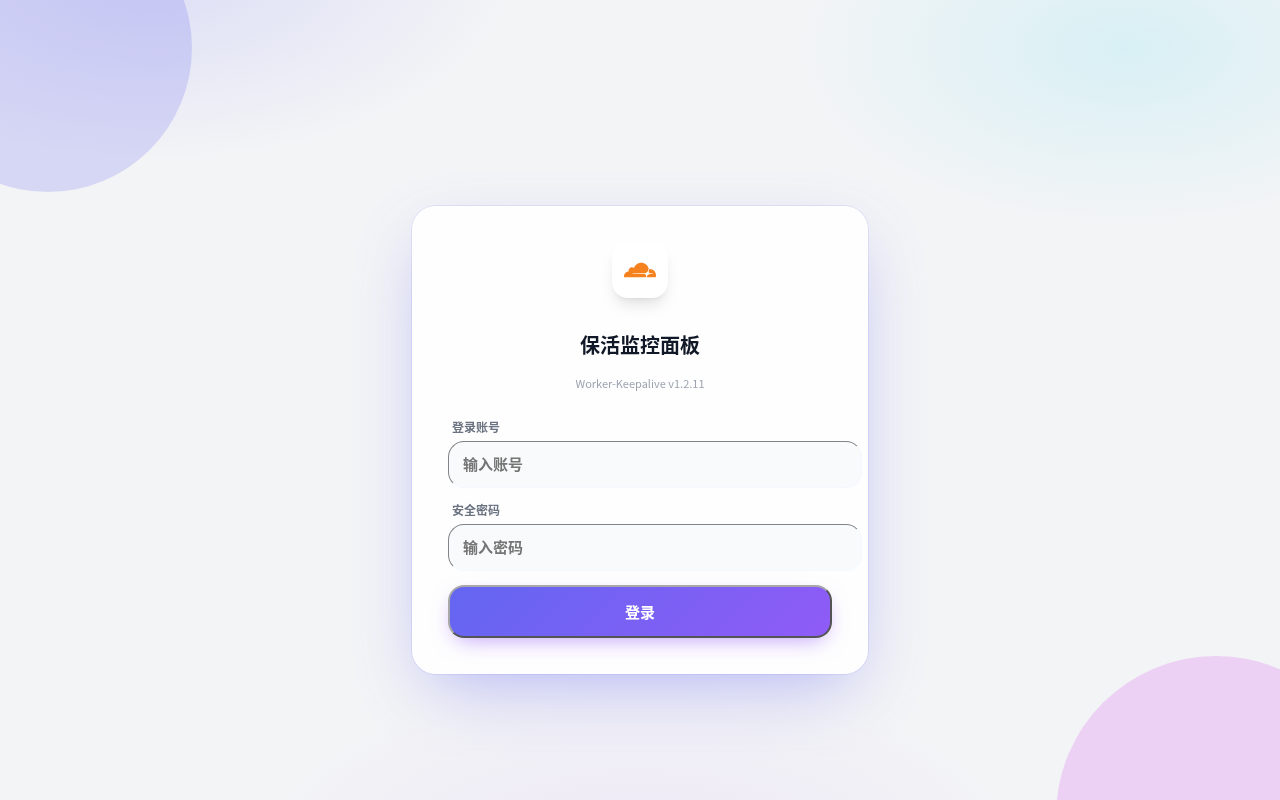
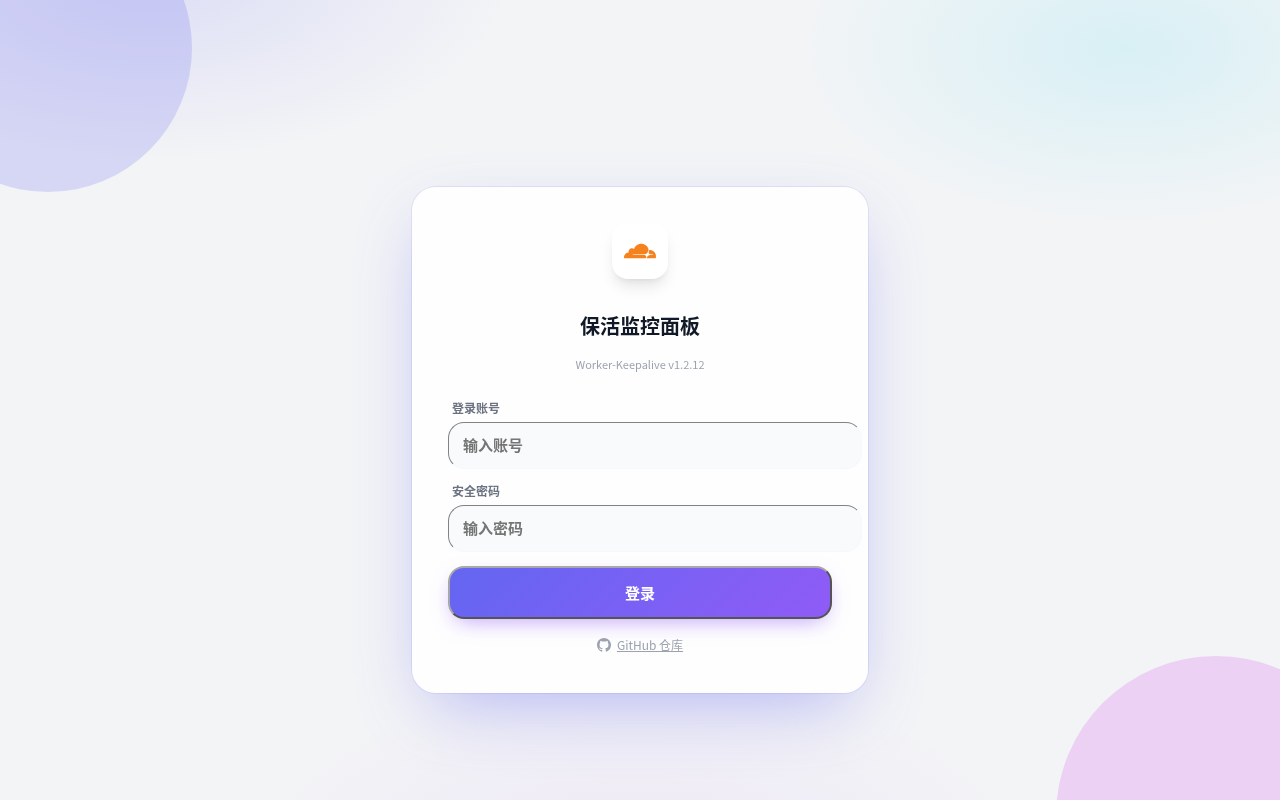
feat: 登录页与顶栏加 GitHub 仓库链接 (v1.2.12)
- 登录页登录按钮下方加居中 GitHub 小链接（章鱼猫图标）
- 登录后顶栏主题切换按钮前加 GitHub 图标按钮
- README 截图 8 张同步更新到 v1.2.12

Changed region(s): [[0.3438, 0.5, 0.6562, 0.8125], [0.4375, 0.3125, 0.5625, 0.5], [0.3125, 0.8125, 0.6875, 0.875]]

diff --git a/worker.js b/worker.js
@@ -1,4 +1,4 @@
-// ========== 站点保活管理系统 v1.2.11 ==========
+// ========== 站点保活管理系统 v1.2.12 ==========
 // 零外部依赖：Vue 3 与 Tailwind 编译产物构建时内联（VUE_SRC + <style> 内 CSS）。
 // 构建/部署前执行：npm i && node scripts/build.js
 // 构建脚本可重复执行，worker.js 里占位符/旧产物都会被整体重写。
@@ -145,6 +145,9 @@ const UI_HTML = `
 .mt-3 {
     margin-top: 0.75rem
 }
+.mt-4 {
+    margin-top: 1rem
+}
 .line-clamp-2 {
     overflow: hidden;
     display: -webkit-box;
@@ -267,6 +270,9 @@ const UI_HTML = `
 }
 .w-3 {
     width: 0.75rem
+}
+.w-3\\.5 {
+    width: 0.875rem
 }
 .w-4 {
     width: 1rem
@@ -754,6 +760,12 @@ const UI_HTML = `
 .to-teal-500 {
     --tw-gradient-to: #14b8a6 var(--tw-gradient-to-position)
 }
+.fill-current {
+    fill: currentColor
+}
+.fill-gray-900 {
+    fill: #111827
+}
 .p-1 {
     padding: 0.25rem
 }
@@ -1121,6 +1133,10 @@ const UI_HTML = `
     --tw-bg-opacity: 1;
     background-color: rgb(30 41 59 / var(--tw-bg-opacity))
 }
+.hover\\:text-gray-600:hover {
+    --tw-text-opacity: 1;
+    color: rgb(75 85 99 / var(--tw-text-opacity))
+}
 .hover\\:text-indigo-500:hover {
     --tw-text-opacity: 1;
     color: rgb(99 102 241 / var(--tw-text-opacity))
@@ -1296,6 +1312,9 @@ const UI_HTML = `
 .dark\\:bg-yellow-900\\/40:is(.dark *) {
     background-color: rgb(113 63 18 / 0.4)
 }
+.dark\\:fill-white:is(.dark *) {
+    fill: #fff
+}
 .dark\\:text-amber-300:is(.dark *) {
     --tw-text-opacity: 1;
     color: rgb(252 211 77 / var(--tw-text-opacity))
@@ -1373,6 +1392,10 @@ const UI_HTML = `
 }
 .dark\\:hover\\:bg-slate-800\\/50:hover:is(.dark *) {
     background-color: rgb(30 41 59 / 0.5)
+}
+.dark\\:hover\\:text-slate-300:hover:is(.dark *) {
+    --tw-text-opacity: 1;
+    color: rgb(203 213 225 / var(--tw-text-opacity))
 }
 @media (min-width: 400px) {
     .min-\\[400px\\]\\:block {
@@ -1640,7 +1663,7 @@ const UI_HTML = `
                 <div class="text-center mb-7">
                     <div class="inline-flex items-center justify-center w-14 h-14 rounded-2xl bg-white dark:bg-white shadow-lg mb-4"><svg viewBox="0 0 24 24" class="w-8 h-8"><path fill="#F6821F" d="M16.5088 16.8447c.1475-.5068.0908-.9707-.1553-1.3154-.2246-.3164-.6045-.499-1.0615-.5205l-8.6592-.1123a.1559.1559 0 0 1-.1333-.0713c-.0283-.042-.0351-.0986-.021-.1553.0278-.084.1123-.1484.2036-.1562l8.7359-.1123c1.0351-.0489 2.1601-.8868 2.5537-1.9136l.499-1.3013c.0215-.0561.0293-.1128.0147-.168-.5625-2.5463-2.835-4.4453-5.5499-4.4453-2.5039 0-4.6284 1.6177-5.3876 3.8614-.4927-.3658-1.1187-.5625-1.794-.499-1.2026.119-2.1665 1.083-2.2861 2.2856-.0283.31-.0069.6128.0635.894C1.5683 13.171 0 14.7754 0 16.752c0 .1748.0142.3515.0352.5273.0141.083.0844.1475.1689.1475h15.9814c.0909 0 .1758-.0645.2032-.1553l.12-.4268zm2.7568-5.5634c-.0771 0-.1611 0-.2383.0112-.0566 0-.1054.0415-.127.0976l-.3378 1.1744c-.1475.5068-.0918.9707.1543 1.3164.2256.3164.6055.498 1.0625.5195l1.8437.1133c.0557 0 .1055.0263.1329.0703.0283.043.0351.1074.0214.1562-.0283.084-.1132.1485-.204.1553l-1.921.1123c-1.041.0488-2.1582.8867-2.5527 1.914l-.1406.3585c-.0283.0713.0215.1416.0986.1416h6.5977c.0771 0 .1474-.0489.169-.126.1122-.4082.1757-.837.1757-1.2803 0-2.6025-2.125-4.727-4.7344-4.727"/></svg></div>
                     <h2 class="text-xl font-black text-gray-900 dark:text-white">保活监控面板</h2>
-                    <p class="text-[11px] text-gray-400 dark:text-slate-400 mt-1.5">Worker-Keepalive v1.2.11</p>
+                    <p class="text-[11px] text-gray-400 dark:text-slate-400 mt-1.5">Worker-Keepalive v1.2.12</p>
                 </div>
                 <div class="space-y-3.5">
                     <div>
@@ -1655,6 +1678,8 @@ const UI_HTML = `
                         <span v-if="isLoggingIn" class="inline-block w-4 h-4 border-2 border-white border-t-transparent rounded-full animate-spin"></span>
                         <span>{{ isLoggingIn ? '验证中...' : '登录' }}</span>
                     </button>
+                    <div class="text-center mt-4"><a href="https://github.com/replycore/Worker-Keepalive" target="_blank" rel="noopener" class="inline-flex items-center gap-1.5 text-xs text-gray-400 dark:text-slate-500 hover:text-gray-600 dark:hover:text-slate-300"><svg viewBox="0 0 24 24" class="w-3.5 h-3.5 fill-current"><path d="M12 0C5.37 0 0 5.37 0 12c0 5.31 3.435 9.795 8.205 11.385.6.105.825-.255.825-.57 0-.285-.015-1.23-.015-2.235-3.015.555-3.795-.735-4.035-1.41-.135-.345-.72-1.41-1.23-1.695-.42-.225-1.02-.78-.015-.795.945-.015 1.62.87 1.845 1.23 1.08 1.815 2.805 1.305 3.495.99.105-.78.42-1.305.765-1.605-2.67-.3-5.46-1.335-5.46-5.925 0-1.305.465-2.385 1.23-3.225-.12-.3-.54-1.53.12-3.18 0 0 1.005-.315 3.3 1.23.96-.27 1.98-.405 3-.405s2.04.135 3 .405c2.295-1.56 3.3-1.23 3.3-1.23.66 1.65.24 2.88.12 3.18.765.84 1.23 1.905 1.23 3.225 0 4.605-2.805 5.625-5.475 5.925.435.375.81 1.095.81 2.22 0 1.605-.015 2.895-.015 3.3 0 .315.225.69.825.57A12.02 12.02 0 0024 12c0-6.63-5.37-12-12-12z
+M12 0C5.37 0 0 5.37 0 12c0 5.31 3.435 9.795 8.205 11.385.6.105.825-.255.825-.57 0-.285-.015-1.23-.015-2.235-3.015.555-3.795-.735-4.035-1.41-.135-.345-.72-1.41-1.23-1.695-.42-.225-1.02-.78-.015-.795.945-.015 1.62.87 1.845 1.23 1.08 1.815 2.805 1.305 3.495.99.105-.78.42-1.305.765-1.605-2.67-.3-5.46-1.335-5.46-5.925 0-1.305.465-2.385 1.23-3.225-.12-.3-.54-1.53.12-3.18 0 0 1.005-.315 3.3 1.23.96-.27 1.98-.405 3-.405s2.04.135 3 .405c2.295-1.56 3.3-1.23 3.3-1.23.66 1.65.24 2.88.12 3.18.765.84 1.23 1.905 1.23 3.225 0 4.605-2.805 5.625-5.475 5.925.435.375.81 1.095.81 2.22 0 1.605-.015 2.895-.015 3.3 0 .315.225.69.825.57A12.02 12.02 0 0024 12c0-6.63-5.37-12-12-12z"/></svg><span>GitHub 仓库</span></a></div>
                 </div>
             </div>
         </div>
@@ -1668,7 +1693,7 @@ const UI_HTML = `
                         <div class="w-8 h-8 rounded-xl bg-white dark:bg-white flex items-center justify-center shadow-md shrink-0"><svg viewBox="0 0 24 24" class="w-5 h-5"><path fill="#F6821F" d="M16.5088 16.8447c.1475-.5068.0908-.9707-.1553-1.3154-.2246-.3164-.6045-.499-1.0615-.5205l-8.6592-.1123a.1559.1559 0 0 1-.1333-.0713c-.0283-.042-.0351-.0986-.021-.1553.0278-.084.1123-.1484.2036-.1562l8.7359-.1123c1.0351-.0489 2.1601-.8868 2.5537-1.9136l.499-1.3013c.0215-.0561.0293-.1128.0147-.168-.5625-2.5463-2.835-4.4453-5.5499-4.4453-2.5039 0-4.6284 1.6177-5.3876 3.8614-.4927-.3658-1.1187-.5625-1.794-.499-1.2026.119-2.1665 1.083-2.2861 2.2856-.0283.31-.0069.6128.0635.894C1.5683 13.171 0 14.7754 0 16.752c0 .1748.0142.3515.0352.5273.0141.083.0844.1475.1689.1475h15.9814c.0909 0 .1758-.0645.2032-.1553l.12-.4268zm2.7568-5.5634c-.0771 0-.1611 0-.2383.0112-.0566 0-.1054.0415-.127.0976l-.3378 1.1744c-.1475.5068-.0918.9707.1543 1.3164.2256.3164.6055.498 1.0625.5195l1.8437.1133c.0557 0 .1055.0263.1329.0703.0283.043.0351.1074.0214.1562-.0283.084-.1132.1485-.204.1553l-1.921.1123c-1.041.0488-2.1582.8867-2.5527 1.914l-.1406.3585c-.0283.0713.0215.1416.0986.1416h6.5977c.0771 0 .1474-.0489.169-.126.1122-.4082.1757-.837.1757-1.2803 0-2.6025-2.125-4.727-4.7344-4.727"/></svg></div>
                         <div class="min-w-0 hidden min-[400px]:block">
                             <div class="text-sm font-extrabold text-gray-900 dark:text-white leading-tight truncate">Worker-Keepalive</div>
-                            <div class="text-[10px] text-gray-400 dark:text-slate-500 truncate">{{ loggedInUser }} · v1.2.11</div>
+                            <div class="text-[10px] text-gray-400 dark:text-slate-500 truncate">{{ loggedInUser }} · v1.2.12</div>
                         </div>
                         <span class="flex items-center gap-1.5 text-[11px] font-bold px-2.5 py-1 rounded-full shrink-0" :class="allDown ? 'bg-red-100 dark:bg-red-950/60 text-red-600 dark:text-red-400' : 'bg-green-100 dark:bg-green-950/60 text-green-600 dark:text-green-400'">
                             <span class="w-1.5 h-1.5 rounded-full" :class="allDown ? 'bg-red-500 dot-live-down' : 'bg-green-500 dot-live-ok'"></span>{{ allDown ? '异常' : '运行中' }}
@@ -1684,6 +1709,8 @@ const UI_HTML = `
                         <button @click="exportConfig" title="导出配置" class="btn-press w-9 h-9 rounded-xl border border-gray-200 dark:border-slate-800 bg-white dark:bg-slate-800 text-base flex items-center justify-center">📤</button>
                         <button @click="triggerImport" title="导入配置" class="btn-press w-9 h-9 rounded-xl border border-gray-200 dark:border-slate-800 bg-white dark:bg-slate-800 text-base flex items-center justify-center">📥</button>
                         <input ref="importFileInput" type="file" accept=".json,application/json" class="hidden" @change="handleImportFile">
+                        <a href="https://github.com/replycore/Worker-Keepalive" target="_blank" rel="noopener" title="GitHub 仓库" class="btn-press w-9 h-9 rounded-xl border border-gray-200 dark:border-slate-800 bg-white dark:bg-slate-800 flex items-center justify-center"><svg viewBox="0 0 24 24" class="w-4 h-4 fill-gray-900 dark:fill-white"><path d="M12 0C5.37 0 0 5.37 0 12c0 5.31 3.435 9.795 8.205 11.385.6.105.825-.255.825-.57 0-.285-.015-1.23-.015-2.235-3.015.555-3.795-.735-4.035-1.41-.135-.345-.72-1.41-1.23-1.695-.42-.225-1.02-.78-.015-.795.945-.015 1.62.87 1.845 1.23 1.08 1.815 2.805 1.305 3.495.99.105-.78.42-1.305.765-1.605-2.67-.3-5.46-1.335-5.46-5.925 0-1.305.465-2.385 1.23-3.225-.12-.3-.54-1.53.12-3.18 0 0 1.005-.315 3.3 1.23.96-.27 1.98-.405 3-.405s2.04.135 3 .405c2.295-1.56 3.3-1.23 3.3-1.23.66 1.65.24 2.88.12 3.18.765.84 1.23 1.905 1.23 3.225 0 4.605-2.805 5.625-5.475 5.925.435.375.81 1.095.81 2.22 0 1.605-.015 2.895-.015 3.3 0 .315.225.69.825.57A12.02 12.02 0 0024 12c0-6.63-5.37-12-12-12z
+M12 0C5.37 0 0 5.37 0 12c0 5.31 3.435 9.795 8.205 11.385.6.105.825-.255.825-.57 0-.285-.015-1.23-.015-2.235-3.015.555-3.795-.735-4.035-1.41-.135-.345-.72-1.41-1.23-1.695-.42-.225-1.02-.78-.015-.795.945-.015 1.62.87 1.845 1.23 1.08 1.815 2.805 1.305 3.495.99.105-.78.42-1.305.765-1.605-2.67-.3-5.46-1.335-5.46-5.925 0-1.305.465-2.385 1.23-3.225-.12-.3-.54-1.53.12-3.18 0 0 1.005-.315 3.3 1.23.96-.27 1.98-.405 3-.405s2.04.135 3 .405c2.295-1.56 3.3-1.23 3.3-1.23.66 1.65.24 2.88.12 3.18.765.84 1.23 1.905 1.23 3.225 0 4.605-2.805 5.625-5.475 5.925.435.375.81 1.095.81 2.22 0 1.605-.015 2.895-.015 3.3 0 .315.225.69.825.57A12.02 12.02 0 0024 12c0-6.63-5.37-12-12-12z"/></svg></a>
                         <button @click="toggleTheme" title="切换主题" class="btn-press w-9 h-9 rounded-xl border border-gray-200 dark:border-slate-800 bg-white dark:bg-slate-800 text-base flex items-center justify-center">{{ isDark ? '🌙' : '☀' }}</button>
                         <button @click="askConfirm('确定退出登录？', doLogoutReal)" title="退出登录" class="btn-press w-9 h-9 rounded-xl border border-red-200 dark:border-red-900/60 bg-red-50 dark:bg-red-950/40 text-red-500 text-base flex items-center justify-center">🚪</button>
                     </div>
@@ -1737,7 +1764,7 @@ const UI_HTML = `
                         <button v-if="isRoot" @click="switchTab('users')" class="w-full flex items-center gap-3 px-3.5 py-2.5 rounded-xl text-sm font-bold transition" :class="currentTab === 'users' ? 'bg-indigo-600 text-white shadow-md shadow-indigo-600/30' : 'text-gray-500 dark:text-slate-400 hover:bg-gray-100 dark:hover:bg-slate-700/60'">
                             <span class="text-base">👥</span>系统账号
                         </button>
-                        <div class="pt-2 mt-1 border-t border-gray-100 dark:border-slate-700/60 px-3.5 py-2 text-[10px] text-gray-400 dark:text-slate-500 font-bold">v1.2.11</div>
+                        <div class="pt-2 mt-1 border-t border-gray-100 dark:border-slate-700/60 px-3.5 py-2 text-[10px] text-gray-400 dark:text-slate-500 font-bold">v1.2.12</div>
                     </div>
                 </aside>
 
